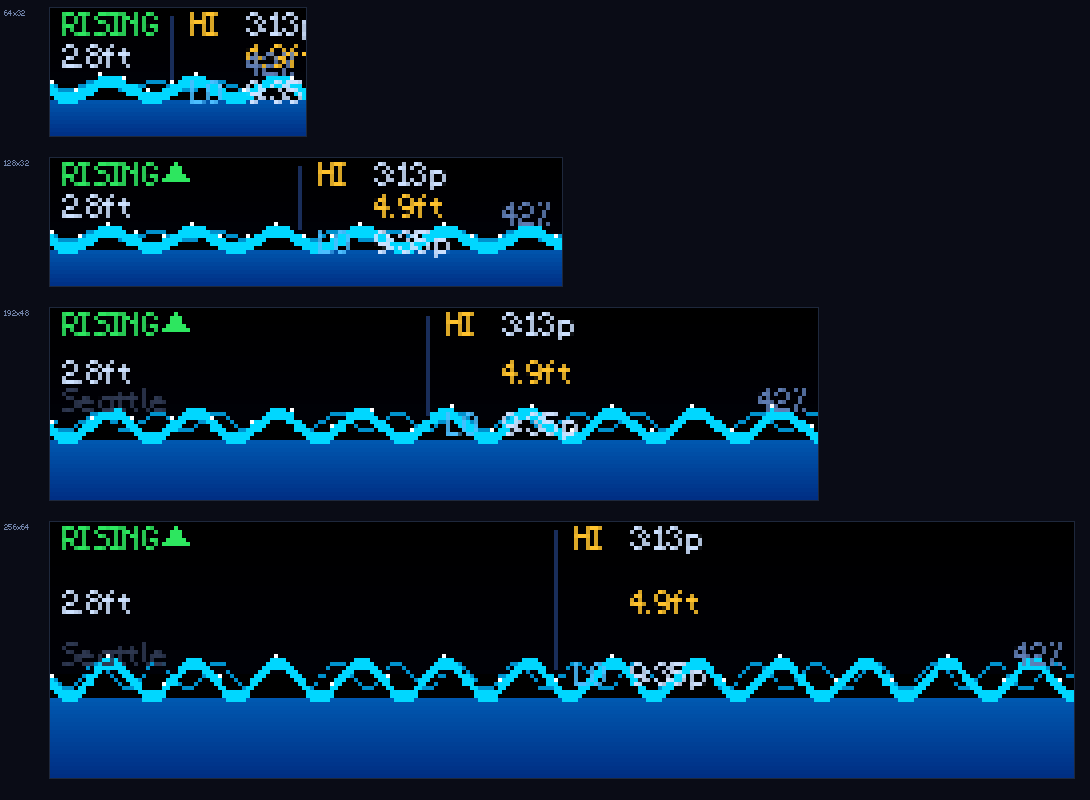
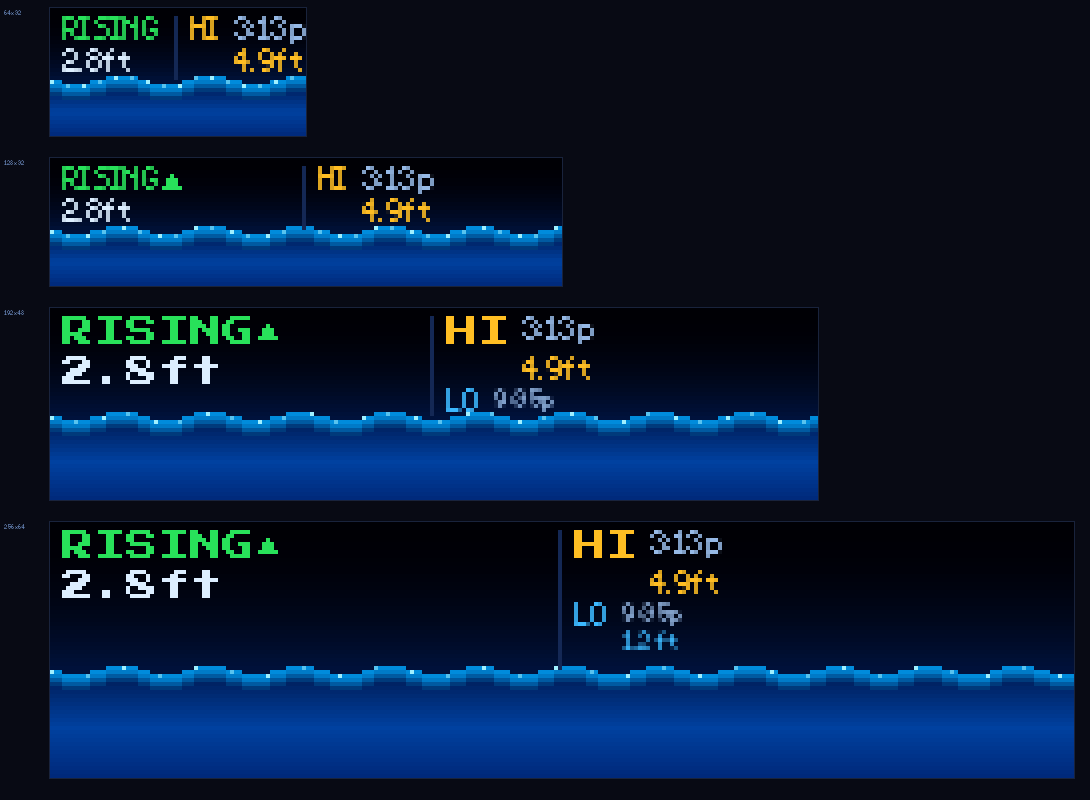
fix(tide-display): seamless wave/water gradient + cleaner wave + pixel font hierarchy
Wave & colour fixes:
- Sky (C_BG→C_SKY_HORIZON) and water (C_WATER_TOP→C_WATER_DEEP) share the same
  indigo anchor colour at the horizon — no luminance jump between sky and sea
- Wave amplitude fixed at 2px (was proportional, causing text overlap on short
  displays); water fill capped at 45% so text always has room in the sky area
- Single-layer wave body with bright crest line and sparkle dots at peaks;
  removed the noisy secondary wave layer
- C_WAVE_CREST added for sparkle highlights; C_WAVE1 → (0,140,220) rich blue-cyan
  instead of the harsh full-cyan that clashed with the water fill

Font hierarchy (Mode 1):
- Dynamic row positioning: rows computed relative to sky_h so nothing clips
  into the wave regardless of tide level
- PressStart2P (pixel font) used for direction and current height on displays
  ≥128px wide with enough sky; 4x6 everywhere else

Stats mode (Mode 4):
- Gauge widened to 8px with gradient fill (water-mid → wave-base) and micro wave
- Progress bar thickened to 3px with a gradient fill (C_LOW→C_HIGH across width)

diff --git a/plugins/tide-display/manager.py b/plugins/tide-display/manager.py
@@ -29,14 +29,17 @@ _KNOWN_NEW_MOON = datetime(2000, 1, 6, 18, 14)
 _LUNAR_PERIOD   = 29.53058867
 
 # ── Colour palette ─────────────────────────────────────────────────────────────
-C_BG          = (  0,   0,   0)
-C_SKY         = (  0,   2,  12)  # very dark sky (above water)
-C_WATER_DEEP  = (  0,  45, 130)
-C_WATER_MID   = (  0,  80, 175)
+C_BG          = (  0,   0,   5)
+C_SKY         = (  0,   2,  12)
+C_SKY_HORIZON = (  0,  20,  65)  # indigo at horizon — sky and water share this anchor
+C_WATER_TOP   = (  0,  30,  90)  # water at surface — matches horizon so no hard edge
+C_WATER_DEEP  = (  0,  40, 120)
+C_WATER_MID   = (  0,  65, 160)
 C_WATER_LIGHT = (  0, 120, 210)
-C_WAVE1       = (  0, 215, 255)  # primary wave crest
-C_WAVE2       = (  0, 145, 205)  # secondary wave
-C_CHART_FILL  = (  0,  55, 140)
+C_WAVE1       = (  0, 140, 220)  # main wave body — rich blue-cyan (not jarring full cyan)
+C_WAVE_CREST  = (160, 240, 255)  # sparkle dots at wave peaks only
+C_WAVE2       = (  0,  90, 175)  # secondary wave (subtle)
+C_CHART_FILL  = (  0,  45, 130)
 C_CHART_LINE  = (  0, 215, 255)
 C_CHART_GLOW1 = (  0, 110, 185)
 C_CHART_GLOW2 = (  0,  65, 135)
@@ -285,41 +288,60 @@ class TidePlugin(BasePlugin):
     # ── Drawing helpers ─────────────────────────────────────────────────────────
 
     def _full_wave(self, canvas, draw, dw, dh, fill_ratio, amp):
-        """Full-display animated water gradient with two-layer wave surface."""
-        fill_px = max(3, int(dh * fill_ratio))
-        surf_y  = dh - fill_px  # approximate top of water body
+        """
+        Full-display animated water gradient with a single clean wave surface.
 
-        # Sky gradient (very dark, subtle blue at horizon)
-        for py in range(surf_y):
-            t = py / max(surf_y, 1)  # 0=top, 1=horizon
-            draw.line([(0,py),(dw-1,py)], fill=_lerp(C_BG, C_SKY, t*0.6))
+        Sky (C_BG → C_SKY_HORIZON) and water (C_WATER_TOP → C_WATER_DEEP) share
+        the same colour at the horizon so there is no luminance jump.
+        Wave amplitude is capped at 2 px so it never clips into text above it.
+        """
+        effective = min(fill_ratio, 0.45)
+        fill_px   = max(4, int(dh * effective))
+        surf_y    = dh - fill_px
 
-        # Water gradient fill
-        for py in range(surf_y + amp + 1, dh):
-            t = (dh - py) / max(fill_px, 1)  # 1=surface, 0=bottom
-            color = _lerp(C_WATER_DEEP, C_WATER_LIGHT, t * 0.75)
+        # Sky: near-black at zenith → indigo at horizon (ease-out)
+        for py in range(surf_y + 1):
+            t = py / max(surf_y, 1)
+            draw.line([(0,py),(dw-1,py)], fill=_lerp(C_BG, C_SKY_HORIZON, t*t))
+
+        # Water: indigo at surface → rich mid-blue → deep navy
+        for py in range(surf_y, dh):
+            t = (py - surf_y) / max(fill_px, 1)
+            if t < 0.5:
+                color = _lerp(C_WATER_TOP, C_WATER_MID, t * 2)
+            else:
+                color = _lerp(C_WATER_MID, C_WATER_DEEP, (t - 0.5) * 2)
             draw.line([(0,py),(dw-1,py)], fill=color)
 
-        # Layer 2 — subtle secondary wave (higher frequency)
+        # One thin wave — amplitude fixed at 2px
+        AMP = 2
         for px in range(dw):
-            wy = surf_y + int((amp-1)*math.sin((px+self.wave_phase*1.8+20)*0.42))
+            wy = surf_y + int(AMP * math.sin((px + self.wave_phase) * 0.28))
             wy = max(0, min(dh-1, wy))
-            draw.point((px, wy), fill=C_WAVE2)
+            for dy in range(3):
+                if wy + dy < dh:
+                    blend = 1.0 - dy * 0.35
+                    draw.point((px, wy+dy), fill=_lerp(C_WATER_TOP, C_WAVE1, blend * 0.85))
 
-        # Layer 1 — main wave (2-3px tall)
+        # Bright crest line
         for px in range(dw):
-            wy = surf_y + int(amp*math.sin((px+self.wave_phase)*0.30))
-            wy = max(0, min(dh-1, wy))
-            draw.line([(px,wy),(px,min(dh-1,wy+2))], fill=C_WAVE1)
-
-        # Foam dots at wave crests
-        spacing = max(6, dw // 18)
-        for px in range(0, dw, spacing):
-            wy = surf_y + int(amp*math.sin((px+self.wave_phase)*0.30)) - 1
+            wy = surf_y + int(AMP * math.sin((px + self.wave_phase) * 0.28)) - 1
             if 0 <= wy < dh:
-                draw.point((px, wy), fill=(255,255,255))
+                draw.point((px, wy), fill=C_WAVE1)
 
-        return surf_y  # returns approx horizon y
+        # Sparkle highlights at wave peaks
+        spacing = max(7, dw // 14)
+        for px in range(0, dw, spacing):
+            wy = surf_y + int(AMP * math.sin((px + self.wave_phase) * 0.28)) - 1
+            if 0 <= wy < dh:
+                draw.point((px, wy), fill=C_WAVE_CREST)
+            px2 = px + spacing // 2
+            if px2 < dw:
+                wy2 = surf_y + int(AMP * math.sin((px2 + self.wave_phase) * 0.28)) - 1
+                if 0 <= wy2 < dh:
+                    draw.point((px2, wy2), fill=_lerp(C_WAVE1, C_WAVE_CREST, 0.55))
+
+        return surf_y
 
     def _dir_arrow(self, draw, cx, cy, direction, sz=4):
         c = C_RISING if direction=='RISING' else C_FALLING if direction=='FALLING' else C_SLACK
@@ -378,66 +400,65 @@ class TidePlugin(BasePlugin):
     def _mode_current(self, canvas, draw, dw, dh, L):
         fill_ratio = self._fill_ratio()
         direction  = self._direction()
-        amp        = L['wave_amp']
         lv         = self._current_level()
 
-        # Full-display animated wave background
-        surf_y = self._full_wave(canvas, draw, dw, dh, fill_ratio, amp)
-        sky_h  = surf_y  # usable sky pixels
+        # Full-display animated wave background (amp param unused — internal fixed at 2)
+        surf_y = self._full_wave(canvas, draw, dw, dh, fill_ratio, L['wave_amp'])
+        sky_h  = surf_y
 
-        dir_c  = (C_RISING if direction=='RISING'
-                  else C_FALLING if direction=='FALLING' else C_SLACK)
-        # Direction text + arrow (top-left of sky)
-        self._txt(3, L['row1'], direction, dir_c)
-        arr_x = 3 + len(direction)*4 + 4
-        if arr_x < dw//2 - 4:
-            self._dir_arrow(draw, arr_x, L['row1']+3, direction, sz=3)
+        # Choose font based on available sky
+        use_pixel = sky_h >= 20 and dw >= 128
+        # Compute row positions dynamically — nothing must exceed sky_h
+        PAD = 2
+        r1  = PAD
+        r2  = r1 + (10 if use_pixel else 8)
+        r3  = r2 + 8 if (r2 + 8) < sky_h - 7 else None
+        r4  = r3 + 7 if r3 and (r3 + 7) < sky_h - 7 else None
 
-        # Current height (left, prominent)
+        dir_c = (C_RISING if direction=='RISING'
+                 else C_FALLING if direction=='FALLING' else C_SLACK)
+
+        # LEFT: direction + height
+        self._txt(3, r1, direction, dir_c)  # extra_small_font
+        # Inline arrow to the right of the direction label
+        arr_x = 3 + len(direction) * 4 + 3
+        if arr_x < dw // 2 - 6:
+            self._dir_arrow(draw, arr_x, r1 + 3, direction, sz=3)
         if lv is not None:
-            self._txt(3, L['row2'], self._fmth(lv), C_TEXT)
+            self._txt(3, r2, self._fmth(lv), C_TEXT)
 
-        # Subtle separator line between left and right halves
-        mid = dw // 2 - 2
+        # Divider
+        mid = dw // 2 - 1
         if sky_h > 12:
-            draw.line([(mid, 2), (mid, sky_h-2)], fill=C_BAR_OUT)
+            draw.line([(mid, PAD), (mid, sky_h - PAD)], fill=C_BAR_OUT)
 
-        # Right half: next two tides
-        rx = dw//2 + 3
+        # RIGHT: next two tides
+        rx    = dw // 2 + 3
         nexts = self._next_tides(2)
 
         if nexts:
-            t0       = nexts[0]
-            is_high0 = t0.get('type','?') == 'H'
-            tc0      = C_HIGH if is_high0 else C_LOW
-            sym0     = 'HI' if is_high0 else 'LO'
-            self._txt(rx, L['row1'], sym0, tc0)
-            self._txt(rx + 14, L['row1'], self._fmtt(t0['dt']), C_TEXT)
-            self._txt(rx + 14, L['row2'], self._fmth(t0['height']), tc0)
+            t0  = nexts[0]
+            tc0 = C_HIGH if t0.get('type','?') == 'H' else C_LOW
+            sym = 'HI' if t0.get('type','?') == 'H' else 'LO'
+            self._txt(rx, r1, sym, tc0)
+            self._txt(rx + 14, r1, self._fmtt(t0['dt']), C_TEXT)
+            self._txt(rx + 14, r2, self._fmth(t0['height']), tc0)
 
-        if len(nexts) >= 2:
-            t1       = nexts[1]
-            is_high1 = t1.get('type','?') == 'H'
-            tc1      = C_HIGH if is_high1 else C_LOW
-            sym1     = 'HI' if is_high1 else 'LO'
-            r3 = L['row3']
-            r4 = L['row4']
-            if r3 < sky_h:
-                self._txt(rx, r3, sym1, tc1)
-                self._txt(rx+14, r3, self._fmtt(t1['dt']), C_TEXT)
-            if r4 < sky_h:
-                self._txt(rx+14, r4, self._fmth(t1['height']), tc1)
+        if len(nexts) >= 2 and r3 is not None:
+            t1  = nexts[1]
+            tc1 = C_HIGH if t1.get('type','?') == 'H' else C_LOW
+            sym2 = 'HI' if t1.get('type','?') == 'H' else 'LO'
+            self._txt(rx, r3, sym2, tc1)
+            self._txt(rx + 14, r3, self._fmtt(t1['dt']), C_TEXT)
+            if r4 is not None:
+                self._txt(rx + 14, r4, self._fmth(t1['height']), tc1)
 
-        # Station name at bottom of sky (very dim)
-        name = self._name()
-        if name and sky_h > 26:
-            self._txt(3, sky_h - 8, name, C_DIM)
-
-        # % label near wave surface (bottom-right of sky)
-        pct = int(fill_ratio * 100)
-        pct_x = dw - len(f"{pct}%")*4 - 3
-        if sky_h > 14:
-            self._txt(pct_x, sky_h - 8, f"{pct}%", C_LABEL)
+        # Station + % at bottom of sky, clear of wave
+        last = (r4 or r3 or r2) + 8
+        if last + 5 < sky_h:
+            self._txt(3, last + 2, self._name(), C_DIM)
+            pct = int(fill_ratio * 100)
+            self._txt(dw - len(f"{pct}%") * 4 - 3, last + 2, f"{pct}%", C_LABEL)
 
     # ── Mode 2: Schedule ────────────────────────────────────────────────────────
 
@@ -618,55 +639,46 @@ class TidePlugin(BasePlugin):
         if not L['small']:
             self._txt(txt_x, L['row4'], f"H {hi_h:.1f}  L {lo_h:.1f}", C_LABEL)
 
-        # Right side: vertical tide gauge bar (if large enough display)
+        # Right side: vertical tide gauge bar (wider, gradient fill)
         if L['large'] or L['medium']:
-            gauge_x  = dw - 10
-            gauge_w  = 5
-            gauge_y  = 2
-            gauge_h  = dh - 14
-
-            # Gauge background
-            draw.rectangle([gauge_x, gauge_y, gauge_x+gauge_w-1, gauge_y+gauge_h],
-                           fill=C_COL_BG, outline=C_BAR_OUT)
-
-            # Gauge fill (proportional to fill_ratio)
+            gw      = 8
+            gx      = dw - gw - 4
+            gy      = 3
+            gh      = dh - 16
             fr      = self._fill_ratio()
-            fill_h  = max(1, int(gauge_h * fr))
-            fill_y0 = gauge_y + gauge_h - fill_h
-            fill_c  = _lerp(C_WATER_MID, C_WATER_LIGHT, fr)
-            draw.rectangle([gauge_x+1, fill_y0, gauge_x+gauge_w-2, gauge_y+gauge_h-1],
-                           fill=fill_c)
+            fh      = max(1, int(gh * fr))
+            fy0     = gy + gh - fh
 
-            # Tiny wave on gauge surface
-            for px in range(gauge_w-2):
-                wy = fill_y0 + int(1*math.sin((px+self.wave_phase)*0.8))
-                wy = max(gauge_y+1, min(gauge_y+gauge_h-1, wy))
-                draw.point((gauge_x+1+px, wy), fill=C_WAVE1)
+            draw.rectangle([gx, gy, gx+gw-1, gy+gh], fill=(0,8,25), outline=C_BAR_OUT)
+            # Gradient fill: water mid at bottom → wave base at top of fill
+            for py in range(fy0, gy+gh):
+                t2 = (gy+gh - py) / max(fh, 1)
+                draw.line([(gx+1, py),(gx+gw-2, py)], fill=_lerp(C_WATER_MID, C_WAVE1, t2*0.6))
+            # Micro wave on fill surface
+            for px in range(gw-2):
+                wy = fy0 + int(math.sin((px+self.wave_phase)*0.8))
+                wy = max(gy+1, min(gy+gh-1, wy))
+                draw.point((gx+1+px, wy), fill=C_WAVE_CREST)
+            # Tick marks
+            for pct2 in (0.25, 0.5, 0.75):
+                ty2 = gy + gh - int(gh*pct2)
+                draw.line([(gx-2, ty2),(gx, ty2)], fill=C_LABEL)
+            # % label centred under gauge
+            pct_g = int(fr*100)
+            draw.text((gx+(gw-len(f"{pct_g}%")*4)//2, gy+gh+3), f"{pct_g}%", fill=C_LABEL)
 
-            # Tick marks at 25/50/75%
-            for pct in (0.25, 0.5, 0.75):
-                ty = gauge_y + gauge_h - int(gauge_h*pct)
-                draw.line([(gauge_x-1, ty),(gauge_x, ty)], fill=C_LABEL)
-
-            # % label under gauge
-            pct = int(fr*100)
-            draw.text((gauge_x-1, gauge_y+gauge_h+2), f"{pct}%", fill=C_LABEL)
-
-        # Cycle progress bar (bottom)
+        # Cycle progress bar — gradient fill, 3px thick
         if cycle_pct is not None:
-            bar_y  = dh - 4
+            bar_y  = dh - 5
             bar_x0 = txt_x
-            bar_x1 = dw - (16 if (L['large'] or L['medium']) else 3)
+            bar_x1 = dw - (gw + 10 if (L['large'] or L['medium']) else 3)
             blen   = bar_x1 - bar_x0
-            flen   = int(blen * cycle_pct/100)
-            draw.rectangle([bar_x0, bar_y, bar_x1, bar_y+2], fill=C_COL_BG)
-            if flen > 0:
-                draw.rectangle([bar_x0, bar_y, bar_x0+flen, bar_y+2],
-                               fill=_lerp(C_LOW, C_HIGH, cycle_pct/100))
-            # Percentage under the filled portion
-            pct_x = min(bar_x0+flen+2, bar_x1-20)
-            draw.text((max(bar_x0, pct_x), bar_y-8),
-                      f"{cycle_pct}%", fill=C_LABEL)
+            flen   = int(blen * cycle_pct / 100)
+            draw.rectangle([bar_x0, bar_y, bar_x1, bar_y+3], fill=(0,8,25))
+            for px in range(flen):
+                t2 = px / max(flen, 1)
+                draw.line([(bar_x0+px, bar_y),(bar_x0+px, bar_y+3)], fill=_lerp(C_LOW, C_HIGH, t2))
+            draw.text((bar_x1+2, bar_y-1), f"{cycle_pct}%", fill=C_LABEL)
 
     # ── Config change ────────────────────────────────────────────────────────────
 
